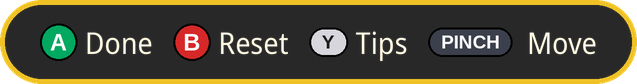
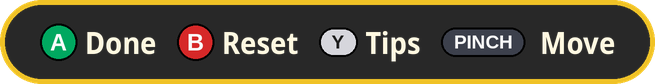
XR placing cards: the legend's button hints stay bold

diff --git a/tools/xr_cards/make_cards.py b/tools/xr_cards/make_cards.py
@@ -30,6 +30,7 @@ ROOT = os.path.normpath(os.path.join(HERE, "..", ".."))
 OUT = os.path.join(ROOT, "resources", "xr")
 FONT = os.path.join(ROOT, "resources", "font-bold.ttf")  # Melee's slanted headings
 TEXT_FONT = os.path.join(ROOT, "resources", "menu.ttf")  # the menus' Noto Sans, as the calibration's text
+TEXT_BOLD = os.path.join(ROOT, "resources", "menu-bold.ttf")  # its bold, for the legend's button hints
 
 DONE = False  # the Place Stage menu flow: the cards say "done", not "fight"
 
@@ -63,8 +64,8 @@ def font(size):
     return ImageFont.truetype(FONT, size * SS)
 
 
-def text_font(size):
-    return ImageFont.truetype(TEXT_FONT, size * SS)
+def text_font(size, bold=False):
+    return ImageFont.truetype(TEXT_BOLD if bold else TEXT_FONT, size * SS)
 
 
 def s(v):
@@ -106,9 +107,9 @@ def button(d, x, y, label, size=34):
     return x + w
 
 
-def rich_line(d, x, y, parts, size, fill=CREAM):
+def rich_line(d, x, y, parts, size, fill=CREAM, bold=False):
     """A line of text with button glyphs: parts are strings or ("btn", label)."""
-    f = text_font(size)
+    f = text_font(size, bold)
     for p in parts:
         if isinstance(p, tuple):
             x = button(d, x, y, p[1], size=size * 1.25) + s(8)
@@ -118,9 +119,9 @@ def rich_line(d, x, y, parts, size, fill=CREAM):
     return x
 
 
-def rich_width(parts, size):
+def rich_width(parts, size, bold=False):
     probe = Image.new("RGBA", (s(2000), s(200)))
-    return rich_line(ImageDraw.Draw(probe), 0, s(100), parts, size)
+    return rich_line(ImageDraw.Draw(probe), 0, s(100), parts, size, bold=bold)
 
 
 def grid_backdrop(w, h):
@@ -424,12 +425,12 @@ def legend(hands):
     move = ("btn", "PINCH") if hands else ("btn", "GRIP")
     parts = [("btn", "A"), "Done   " if DONE else "Start   ", ("btn", "B"), "Reset   ", ("btn", "Y"), "Tips   ", move, " Move"]
     size = 30
-    w = rich_width(parts, size) + s(80)
+    w = rich_width(parts, size, True) + s(80)
     h = s(84)
     img = Image.new("RGBA", (w, h), (0, 0, 0, 0))
     d = ImageDraw.Draw(img)
     d.rounded_rectangle((0, 0, w - 1, h - 1), radius=h // 2, fill=(0, 0, 0, 215), outline=GOLD, width=s(5))
-    rich_line(d, s(40), h // 2, parts, size)
+    rich_line(d, s(40), h // 2, parts, size, bold=True)
     return img
 
 
